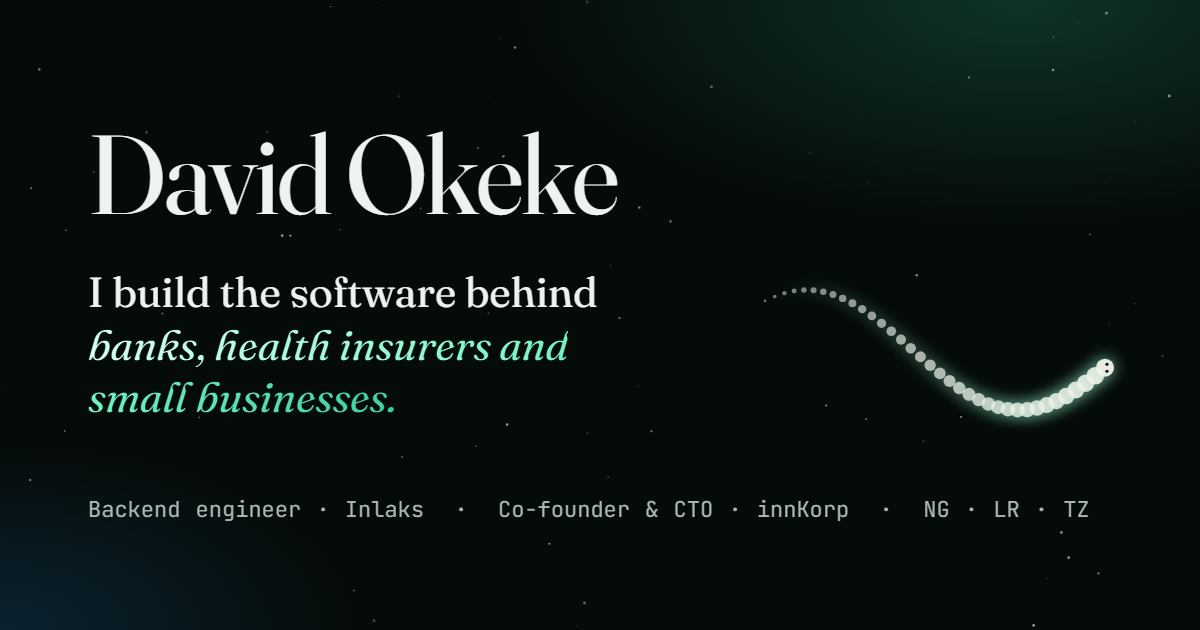
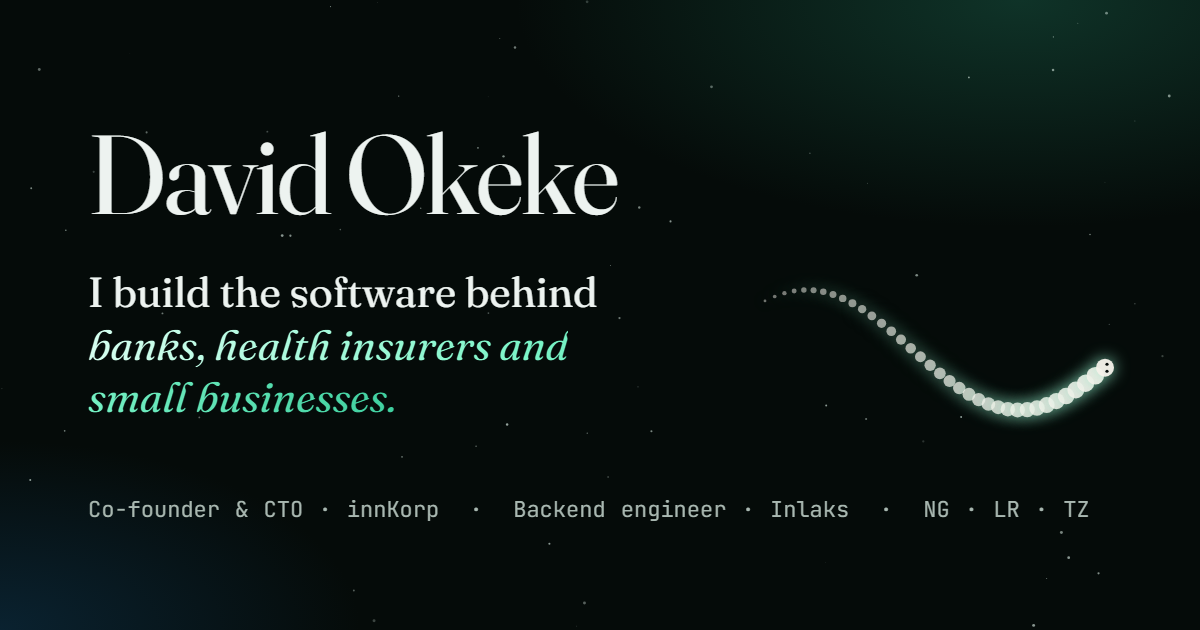
Lead with innKorp on the home and about pages
Put the company first and the Inlaks role second in the intro, titles,
descriptions and preview card. The work page still opens with the
Inlaks projects, since they carry the strongest results.

Changed region(s): [[0.4008, 0.7841, 0.7092, 0.8444], [0.0617, 0.7841, 0.37, 0.8444]]

diff --git a/about/index.html b/about/index.html
@@ -5,13 +5,13 @@
     <meta charset="utf-8">
     <meta name="viewport" content="width=device-width, initial-scale=1">
     <meta name="author" content="David Okeke">
-    <meta name="description" content="About David Okeke: backend engineer at Inlaks and co-founder and CTO of innKorp.">
+    <meta name="description" content="About David Okeke: co-founder and CTO of innKorp, and backend engineer at Inlaks.">
     <meta name="theme-color" content="#08090b">
     <link rel="canonical" href="https://dcwhitesnake.github.io/about/">
     <meta property="og:type" content="profile">
     <meta property="og:url" content="https://dcwhitesnake.github.io/about/">
     <meta property="og:title" content="About · David Okeke">
-    <meta property="og:description" content="Backend engineer at Inlaks. Co-founder and CTO of innKorp.">
+    <meta property="og:description" content="Co-founder and CTO of innKorp. Backend engineer at Inlaks.">
     <meta property="og:image" content="https://dcwhitesnake.github.io/img/og-card.png">
     <meta name="twitter:card" content="summary_large_image">
     <meta name="twitter:creator" content="@dc_okeke">
@@ -55,8 +55,8 @@
             <div class="intro">
                 <img src="/img/profilephoto_1.jpg" width="240" height="240" alt="Portrait of David Okeke">
                 <div class="prose">
-                    <p><strong>Hey, I'm David.</strong> I'm a backend engineer at <a href="https://www.inlaks.com/">Inlaks</a>, building systems for banks and health insurers in Nigeria, Liberia and Tanzania.</p>
-                    <p>I'm also the <strong>co-founder and CTO</strong> of <a href="https://innkorp.com">innKorp</a>, a KYC vault that small businesses own. They do the paperwork once and share it with fintechs on their own terms.</p>
+                    <p><strong>Hey, I'm David.</strong> I'm the <strong>co-founder and CTO</strong> of <a href="https://innkorp.com">innKorp</a>, a KYC vault that small businesses own. They do the paperwork once and share it with fintechs on their own terms.</p>
+                    <p>I'm also a backend engineer at <a href="https://www.inlaks.com/">Inlaks</a>, building systems for banks and health insurers in Nigeria, Liberia and Tanzania.</p>
                     <p>I like the parts that have to be right: <strong>money moving, claims clearing, documents sharing</strong>. Ledgers, concurrency, audit trails, and integrations with banks and card processors.</p>
                     <p>Mostly C# and .NET, with SQL Server, Postgres, Redis and Docker, and TypeScript when the job needs it.</p>
                 </div>

diff --git a/index.html b/index.html
@@ -6,12 +6,12 @@
     <meta charset="utf-8">
     <meta name="viewport" content="width=device-width, initial-scale=1">
     <meta name="author" content="David Okeke">
-    <meta name="description" content="David Okeke is a backend engineer at Inlaks and co-founder and CTO of innKorp, building software for banks, health insurers and small businesses in Nigeria, Liberia and Tanzania.">
+    <meta name="description" content="David Okeke is the co-founder and CTO of innKorp and a backend engineer at Inlaks, building software for banks, health insurers and small businesses in Nigeria, Liberia and Tanzania.">
     <meta name="theme-color" content="#08090b">
     <link rel="canonical" href="https://dcwhitesnake.github.io/">
     <meta property="og:type" content="website">
     <meta property="og:url" content="https://dcwhitesnake.github.io/">
-    <meta property="og:title" content="David Okeke · Backend engineer & CTO">
+    <meta property="og:title" content="David Okeke · Co-founder & CTO of innKorp">
     <meta property="og:description" content="Software for banks, health insurers and small businesses in Nigeria, Liberia and Tanzania.">
     <meta property="og:image" content="https://dcwhitesnake.github.io/img/og-card.png">
     <meta property="og:image:width" content="1200">
@@ -28,7 +28,7 @@
     <link rel="stylesheet" href="/css/styles.css">
     <script src="/js/main.js" defer></script>
     <script data-goatcounter="https://davidokeke.goatcounter.com/count" async src="https://gc.zgo.at/count.js"></script>
-    <title>David Okeke · Backend engineer & CTO</title>
+    <title>David Okeke · Co-founder & CTO of innKorp</title>
 </head>
 
 <body>
@@ -54,7 +54,7 @@
     <main id="main">
         <section class="home">
             <h1>David Okeke</h1>
-            <p class="home-role">Backend engineer at <a href="https://www.inlaks.com/">Inlaks</a>. Co-founder &amp; CTO of <a href="https://innkorp.com">innKorp</a>.</p>
+            <p class="home-role">Co-founder &amp; CTO of <a href="https://innkorp.com">innKorp</a>. Backend engineer at <a href="https://www.inlaks.com/">Inlaks</a>.</p>
             <p class="home-line">I build the software behind banks, health insurers and small businesses in Nigeria, Liberia and Tanzania.</p>
             <button class="start" type="button" data-palette-open>
                 <span class="keys">Press <kbd data-mod>ctrl</kbd> <kbd>K</kbd> to start</span>
